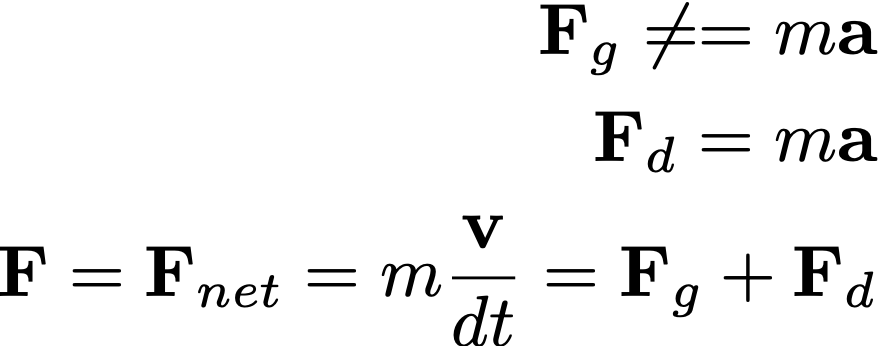
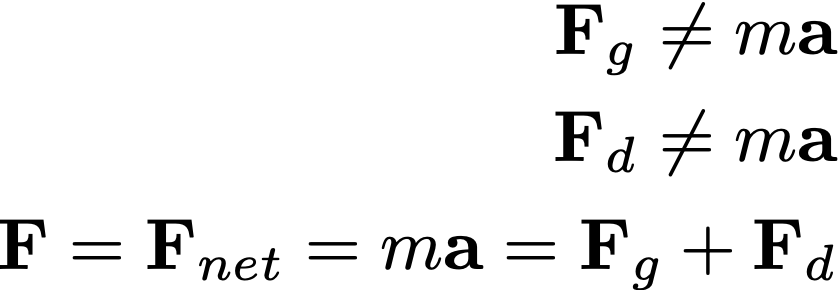
init

diff --git a/_posts/2021-10-02-Force-Revisited.md b/_posts/2021-10-02-Force-Revisited.md
@@ -14,19 +14,21 @@ Pretend you are in space, and you've got a tiny thruster. If you turn on your th
 
 A quick note, I'm using calculus notation so we'll have derivatives. If you are in a non-calc class, you can replace the derivatives with Δ's. Is this sacrilege, yeah but is sacrilege within reason. 
 
-<img src="/Users/liamsharp/Library/Application Support/typora-user-images/image-20210925145538719.png" alt="image-20210925145538719" style="zoom:25%;" />
+
+
+<img src="https://github.com/lms464/lms464.github.io/blob/master/_maths/dxdt.png?raw=true" alt="Displacement Figure" style="zoom:25%;" />
 
 The second law is an equation describing the sum of forces, and in it's most general form
 
-<img src="/Users/liamsharp/Library/Application Support/typora-user-images/image-20210925141330592.png" alt="image-20210925141330592" style="zoom: 25%;" />
 
-<img src="/Users/liamsharp/Library/Application Support/typora-user-images/image-20210925141424095.png" alt="image-20210925141424095" style="zoom:25%;" />
 
-<img src="/Users/liamsharp/Library/Application Support/typora-user-images/image-20210925141704377.png" alt="image-20210925141704377" style="zoom:25%;" />
+<img src="https://github.com/lms464/lms464.github.io/blob/master/_maths/force1.png?raw=true" alt="Displacement Figure" style="zoom:25%;" />
+
+<img src="https://github.com/lms464/lms464.github.io/blob/master/_maths/force2.png?raw=true" alt="Displacement Figure" style="zoom:25%;" />
 
 We make an assumption here for intro physics, and that is mass is constant (and that's a fair assumption). Recall that the first  derivative of velocity is acceleration (or the difference of velociy with repsect to the difference of time). With that the equation simplifies to:
 
-<img src="/Users/liamsharp/Library/Application Support/typora-user-images/image-20210925141905222.png" alt="image-20210925141905222" style="zoom:25%;" />
+<img src="https://github.com/lms464/lms464.github.io/blob/master/_maths/force3.5.png?raw=true" alt="Displacement Figure" style="zoom:25%;" />
 
 There is an addendum here that's dependant on who is teaching, what book you are using, and potentially who you might be getting help from. The force we are describing here is the *net* force, or the sum of forces acting on an object. For this, we will use the following terms interchangeably:
 
@@ -34,7 +36,7 @@ There is an addendum here that's dependant on who is teaching, what book you are
 
 Here's where I've found people getting confused. Pretend you are sky diving, there are two forces acting on you (for the sake of argument), 1) gravity, 2) the drag from the parachute. Neighter *gravity* or *drag* is equal to m**a**, their sum is.
 
-<img src="/Users/liamsharp/Library/Application Support/typora-user-images/image-20210925143139303.png" alt="image-20210925143139303" style="zoom:25%;" />
+<img src="https://github.com/lms464/lms464.github.io/blob/master/_maths/force4.png?raw=true" alt="Displacement Figure" style="zoom:25%;" />
 
 ## Newton's Third Law
 
@@ -54,5 +56,5 @@ The mass, size, area, and volume don't matter. Lets play with two ideas for a mo
 
 3. Get this in your head: the NET of the forces is equal to m**a**, *NOT* any old force. If you cannot, you are giong to have such a struggle
 
-   <img src="/Users/liamsharp/Library/Application Support/typora-user-images/image-20210925143139303.png" alt="image-20210925143139303" style="zoom:25%;" />
+   <img src="https://github.com/lms464/lms464.github.io/blob/master/_maths/force4.png?raw=true" alt="Displacement Figure" style="zoom:25%;" />
 
